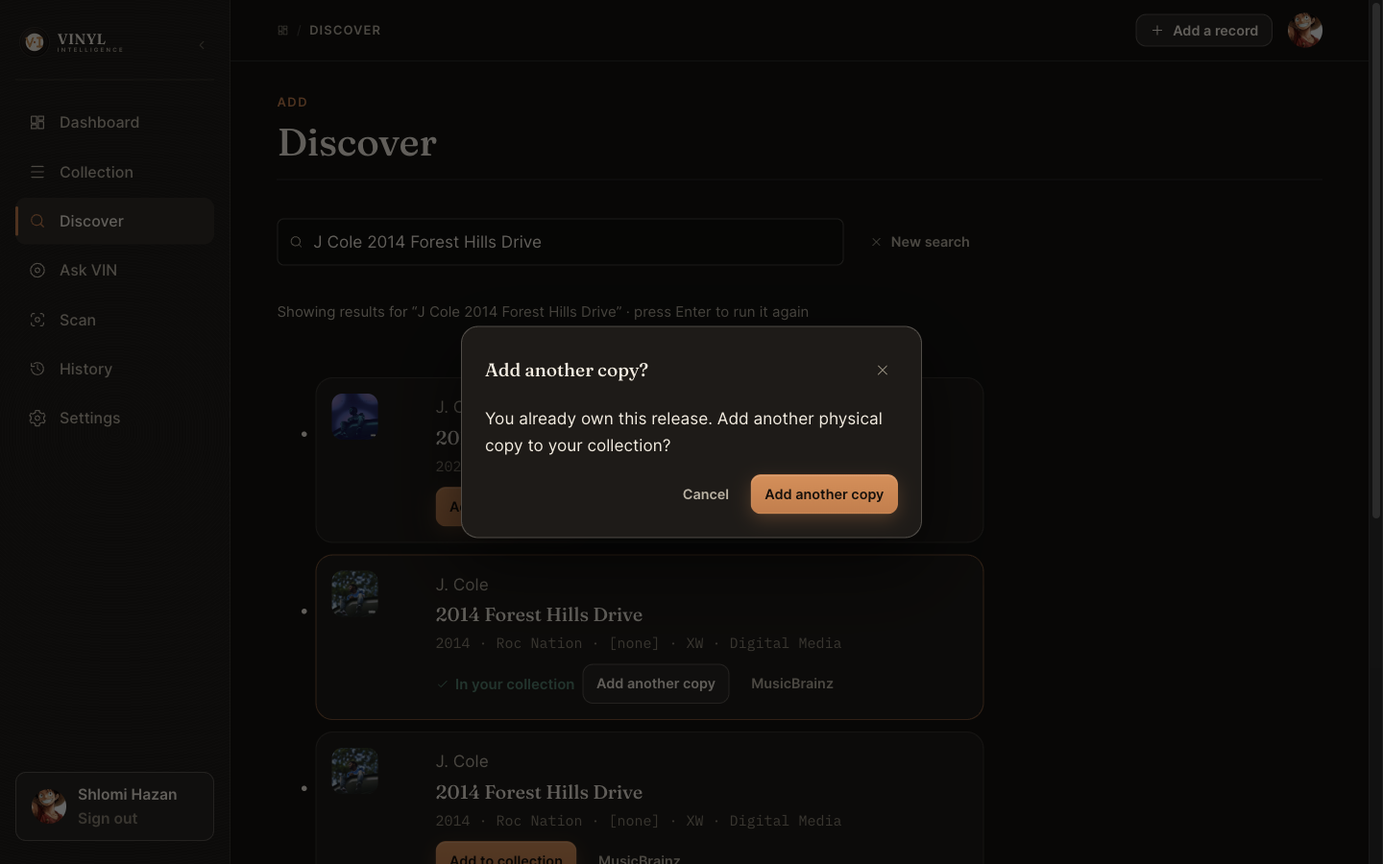
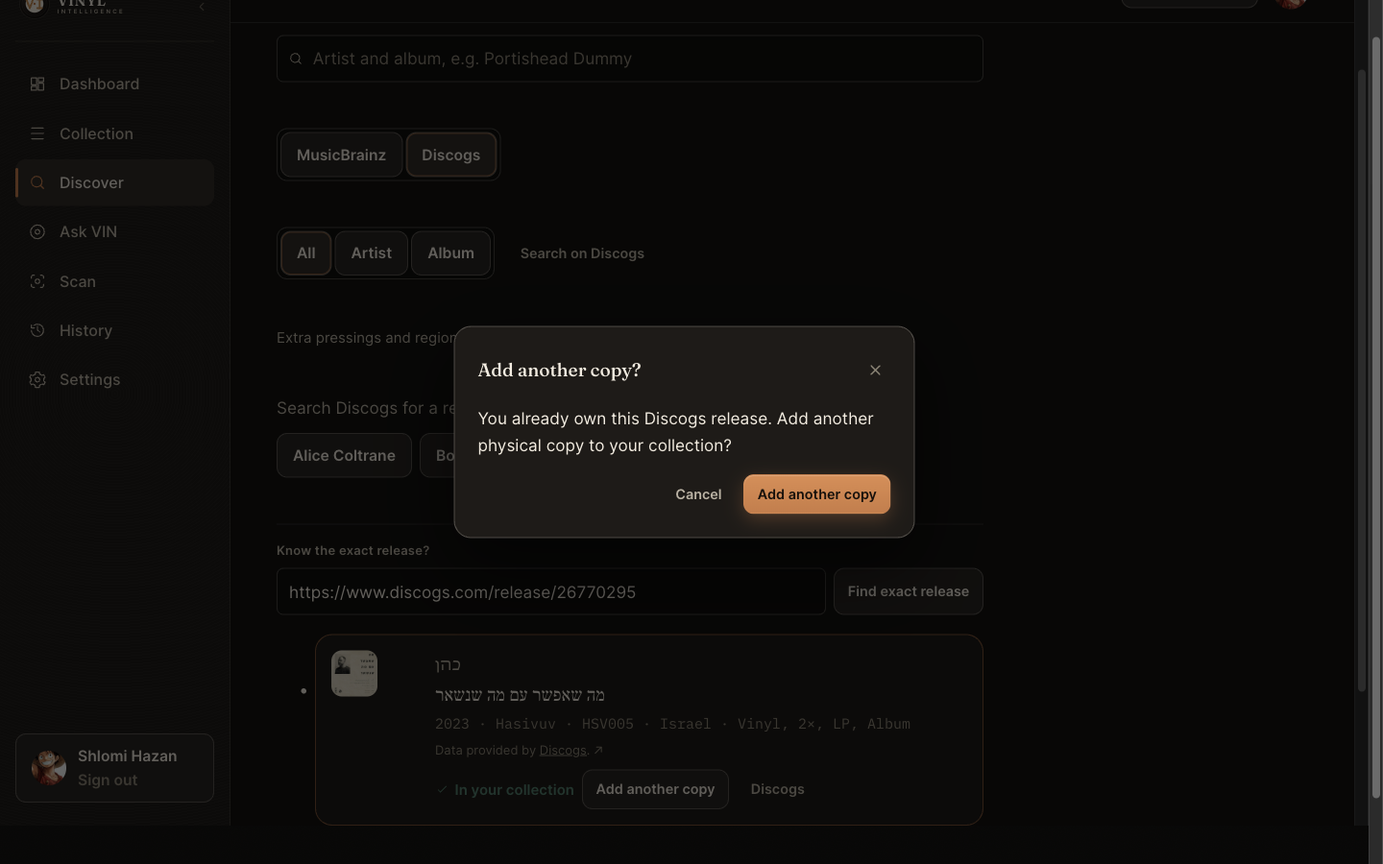
docs: final submission refresh — two-provider Discover in README/User Guide/Inspect
Documentation and screenshot refresh only. Captured against real production
(https://vinyl-intelligence.netlify.app, runtime 6a86f57b292826ecf73c4adab9d5a40baa5ecdeb)
via puppeteer-core + a fresh, temporary Chrome profile the user logged into
interactively; every screenshot was visually inspected before acceptance,
with waits for network idle plus real artwork load. No credentials, cookies,
or tokens were ever printed, logged, or committed.

Screenshots replaced (were MusicBrainz-only, predating the provider
selector entirely):
- docs/assets/screenshots/09-discover.png
- docs/assets/screenshots/10-discover-results.png
- docs/assets/screenshots/11-discover-duplicate-dialog.png (now the Discogs
  duplicate-copy case, with the provider selector visible in frame)
- docs/assets/screenshots/17-discover-exact-lookup.png (MusicBrainz exact
  lookup, now with the provider selector visible in frame)
- docs/assets/inspect/09-discover-modes-exact-lookup.png (re-annotated for
  the two-provider design: provider selector, shared All/Artist/Album
  modes, exact-release lookup)

Screenshots added (no prior asset showed any Discogs UI):
- docs/assets/screenshots/18-discover-discogs.png (Discogs initial state)
- docs/assets/screenshots/19-discover-discogs-results.png (Hebrew query,
  real artwork, attribution, owned state)
- docs/assets/screenshots/20-discover-discogs-exact-lookup.png (exact
  release 26770295, owned state)
[…]

diff --git a/README.md b/README.md
@@ -69,7 +69,7 @@ Vinyl collectors often remember a mood, a decade, or a feeling before they remem
 | 🤖 AI Curator (VIN) | Natural-language mood → grounded recommendations from owned records only |
 | 💬 Conversational refinement | Bounded follow-up turns that narrow a previous recommendation |
 | 📀 Personal collection | Full CRUD, organized by artist, genre, year, decade, rating, favorites |
-| 🔎 Catalog-assisted add | MusicBrainz search → candidate confirmation → import |
+| 🔎 Catalog-assisted add | MusicBrainz (default) or Discogs (secondary) search → candidate confirmation → import |
 | 📸 AI cover recognition | Photograph a sleeve → vision clues → catalog match → confirm → save |
 | 🔁 Duplicate-copy handling | Owning a second physical pressing is disclosed and explicitly confirmed, never blocked or silently duplicated |
 | 🔍 Deterministic search/filter/sort | Artist, title, genre, decade, rating, listening recency — no LLM involved |
@@ -96,24 +96,36 @@ The non-negotiable rule: **VIN recommends only from records the user owns.** The
   <img src="docs/assets/screenshots/06-collection-list.png" alt="Collection list view with filters" width="820">
 </p>
 
-Every collection item combines shared catalog facts (artist, title, year, label, genres — sourced from MusicBrainz) with data the user fully owns: rating, favorite flag, personal notes, personal genres, custom cover, and listening history. Browse by artist, genre, year/decade, favorites, minimum rating, or listening recency ("Never played," "Not played in 30 days," "Least recently played"), in Grid or List view, on desktop or mobile — all deterministic, with no network round-trip on a filter change.
+Every collection item combines shared catalog facts (artist, title, year, label, genres — sourced from MusicBrainz or Discogs, depending on how the record was added) with data the user fully owns: rating, favorite flag, personal notes, personal genres, custom cover, and listening history. Browse by artist, genre, year/decade, favorites, minimum rating, or listening recency ("Never played," "Not played in 30 days," "Least recently played"), in Grid or List view, on desktop or mobile — all deterministic, with no network round-trip on a filter change.
 
 ## 🔎 Discover Records
 
 <p align="center">
-  <img src="docs/assets/screenshots/10-discover-results.png" alt="Discover search results with mode selector" width="820">
+  <img src="docs/assets/screenshots/09-discover.png" alt="Discover — MusicBrainz/Discogs provider selector, search modes, examples, and exact-release lookup" width="820">
 </p>
 
-Search MusicBrainz in one of three explicit modes — **All** (artist or release title, the default), **Artist**, or **Album** — confirm the correct release, and add it. Results page five at a time with **Load more** (up to 20 per query), and a **"Search on MusicBrainz"** link opens the provider's own full search UI when the bounded in-app result set isn't enough. Already know the exact pressing? Paste its MusicBrainz release URL under **"Know the exact release?"** and Vinyl Intelligence extracts and validates the release ID itself — no manual copying, and the pasted URL is never fetched by the server, only the validated ID crosses the boundary:
+One shared search area serves two catalog providers, **MusicBrainz | Discogs**, chosen with an explicit selector — **MusicBrainz is the default**, and switching provider (or mode) never fires a search by itself; the typed query always survives the switch. Both providers expose the same three explicit search modes — **All** (artist or release title, the default), **Artist**, or **Album** — plus a set of example searches and an outbound **"Search on MusicBrainz"** / **"Search on Discogs"** link to the provider's own full search UI when the bounded in-app result set isn't enough:
 
 <p align="center">
-  <img src="docs/assets/screenshots/17-discover-exact-lookup.png" alt="Exact MusicBrainz release URL lookup returning one candidate" width="820">
+  <img src="docs/assets/screenshots/10-discover-results.png" alt="MusicBrainz search results for Radiohead OK Computer, provider selector visible" width="820">
 </p>
 
-If a candidate is a release **already** in the collection, Discover says so honestly ("In your collection") and still offers an explicit **"Add another copy"** action for a legitimate second pressing — click it and a single confirmation dialog is the only way an extra physical copy is ever added:
+**Discogs is an explicit secondary provider**, not a silent fallback — useful for regional pressings and releases MusicBrainz doesn't have. Discogs results and MusicBrainz results are never combined or cross-matched; adding the same release through both providers creates two separate, honestly-labeled collection entries, each carrying real cover artwork and the required "Data provided by Discogs." attribution:
 
 <p align="center">
-  <img src="docs/assets/screenshots/11-discover-duplicate-dialog.png" alt="Duplicate-copy confirmation dialog" width="520">
+  <img src="docs/assets/screenshots/19-discover-discogs-results.png" alt="Discogs search results for a Hebrew query, with artwork, attribution, and owned state" width="820">
+</p>
+
+Already know the exact pressing? Paste a MusicBrainz **or** Discogs release URL under **"Know the exact release?"** and Vinyl Intelligence extracts and validates the release ID itself — no manual copying, and the pasted URL is never fetched by the server; only the validated ID crosses the boundary:
+
+<p align="center">
+  <img src="docs/assets/screenshots/20-discover-discogs-exact-lookup.png" alt="Exact Discogs release URL lookup returning one candidate, already owned" width="820">
+</p>
+
+If a candidate is a release **already** in the collection (checked by its exact provider + release ID, MusicBrainz and Discogs identities never conflated), Discover says so honestly ("In your collection") and still offers an explicit **"Add another copy"** action for a legitimate second pressing — click it and a single confirmation dialog is the only way an extra physical copy is ever added; a brand-new, not-yet-owned result adds directly, with no extra popup in the way:
+
+<p align="center">
+  <img src="docs/assets/screenshots/11-discover-duplicate-dialog.png" alt="Duplicate-copy confirmation dialog for an already-owned Discogs release" width="520">
 </p>
 
 ## 📸 Scan a Record Cover
@@ -138,7 +150,7 @@ Photograph or upload a cover. A vision model extracts likely clues (artist, titl
   <img src="docs/assets/screenshots/07-record-detail.png" alt="Album detail page" width="820">
 </p>
 
-The Album Detail page is the clearest picture of the app's metadata boundary: catalog genres are shown as read-only chips (shared data, sourced from MusicBrainz), while "Your genres," rating, favorite, notes, and cover art are all editable, owner-scoped overlays layered on top. A MusicBrainz-backed record also carries a **"View on MusicBrainz"** link back to its exact release page — pure outbound provenance, no new server call. VIN can use these signals; it never invents or overwrites them.
+The Album Detail page is the clearest picture of the app's metadata boundary: catalog genres are shown as read-only chips (shared data, sourced from MusicBrainz or Discogs depending on how the record was added), while "Your genres," rating, favorite, notes, and cover art are all editable, owner-scoped overlays layered on top. A catalog-backed record also carries a provenance link back to its exact release page on its source provider — **"View on MusicBrainz"** or **"View on Discogs"**, the latter paired with the required "Data provided by Discogs." attribution — pure outbound provenance, no new server call. VIN can use these signals; it never invents or overwrites them.
 
 ## 🌍 Hebrew & Multilingual Records
 
@@ -154,8 +166,8 @@ Dynamic record content — titles, artists, labels, genres — renders correctly
 | --- | --- |
 | ![Dashboard](docs/assets/screenshots/03-dashboard.png) | ![Collection filters](docs/assets/screenshots/05-collection-filters.png) |
 | Dashboard — stats, Quick VIN, quick actions | Collection — minimum-rating filter applied |
-| ![Discover](docs/assets/screenshots/09-discover.png) | ![Mobile](docs/assets/screenshots/16-mobile-collection.png) |
-| Discover — search modes, Load more, and exact-URL lookup | Mobile — Collection on a narrow viewport |
+| ![Discover](docs/assets/screenshots/18-discover-discogs.png) | ![Mobile](docs/assets/screenshots/16-mobile-collection.png) |
+| Discover — Discogs selected, search modes, examples, and exact-URL lookup | Mobile — Collection on a narrow viewport |
 
 More screens are shown throughout this README and in the [User Guide](docs/USER_GUIDE.md) and [Visual Inspect](docs/INSPECT.md) guide.
 
@@ -178,14 +190,15 @@ Browser (Vite + React 19 + TypeScript SPA on Netlify static hosting)
   |
   `---- provider access + privileged catalog persistence --> Netlify Functions
           |  /api/health             (GET)   public liveness — no auth
-          |  /api/catalog/search     (GET)   MusicBrainz release search        [auth]
+          |  /api/catalog/search     (GET)   MusicBrainz (default) or Discogs  [auth]
+          |                                  (secondary, ?provider=discogs) search
           |  /api/catalog/add        (POST)  upsert shared release + insert    [auth]
           |                                  owned collection item
           |  /api/catalog/recognize  (POST)  OpenRouter vision recognition     [auth]
           |  /api/curator/recommend  (POST)  initial recommendation pipeline   [auth]
           |  /api/curator/refine     (POST)  bounded refinement pipeline       [auth]
           v
-      Hosted Supabase (service-role:    OpenRouter                MusicBrainz
+      Hosted Supabase (service-role:    OpenRouter                MusicBrainz + Discogs
       catalog-add's release upsert       google/gemini-3.1-flash-lite (vision + intent)
       AND collection-item insert,        google/gemini-3.5-flash (selection)
       plus telemetry writes)
@@ -199,7 +212,7 @@ Full detail, including rejected alternatives and the reasoning behind each decis
 - **Backend:** Netlify Functions (`.mts`), six endpoints — five auth-gated application endpoints plus one public `/api/health` liveness endpoint
 - **Database / Auth / Storage:** hosted Supabase — Postgres with RLS on every table, Supabase Auth, two private Storage buckets
 - **AI:** OpenRouter — `google/gemini-3.1-flash-lite` (vision + curator intent), `google/gemini-3.5-flash` (curator selection); strict JSON schemas; allowed-candidate-ID validation
-- **Music metadata:** MusicBrainz; Cover Art Archive for display-time artwork
+- **Music metadata:** MusicBrainz (primary/default), Discogs (explicit secondary provider); Cover Art Archive for display-time MusicBrainz artwork, a persisted Discogs image URL for Discogs artwork
 - **Testing:** Vitest (unit/integration), pgTAP via the Supabase CLI (RLS/DB)
 - **Deliberately not used:** RAG / vector database, multi-agent orchestration, Next.js, analytics infrastructure
 
@@ -226,9 +239,11 @@ Copy `.env.example` to a local `.env` and fill in local or hosted Supabase value
 | `SUPABASE_SERVICE_ROLE_KEY` | Netlify Functions only | **yes** |
 | `OPENROUTER_API_KEY` | Netlify Functions only | **yes** |
 | `MUSICBRAINZ_USER_AGENT`, `OPENROUTER_VISION_MODEL`, `OPENROUTER_CURATOR_INTENT_MODEL`, `OPENROUTER_CURATOR_SELECTION_MODEL` | Netlify Functions only | no |
+| `DISCOGS_TOKEN` | Netlify Functions only | **yes** |
+| `DISCOGS_USER_AGENT` | Netlify Functions only | no |
 | `OPENROUTER_APP_URL`, `OPENROUTER_APP_TITLE` | Netlify Functions only | no (optional attribution headers) |
 
-Browser code uses only `VITE_*` values. Running the photo-recognition or curator flows locally makes real, paid OpenRouter calls.
+Browser code uses only `VITE_*` values — `DISCOGS_TOKEN` and `DISCOGS_USER_AGENT` (like every other catalog/AI credential) are read only by Netlify Functions and never reach client code. Running the photo-recognition or curator flows locally makes real, paid OpenRouter calls; running a Discogs search locally makes a real Discogs API call.
 
 For the local Supabase stack:
 
@@ -270,7 +285,7 @@ The full verification history — every milestone's automated gate, independent 
 | [Architecture](docs/architecture.md) | As-built system design |
 | [Data Model](docs/data-model.md) | Schema, RLS, and Storage |
 | [AI Design](docs/ai-design.md) | Model choices, prompts, cost/latency posture |
-| [API Integrations](docs/api-integrations.md) | MusicBrainz, Cover Art Archive, OpenRouter, Supabase, Netlify |
+| [API Integrations](docs/api-integrations.md) | MusicBrainz, Discogs, Cover Art Archive, OpenRouter, Supabase, Netlify |
 | [Security](docs/security.md) | Secrets, RLS, upload validation, retention |
 | [Verification](docs/verification.md) | Every milestone's evidence, findings, and human acceptance |
 | [Current Roadmap](docs/roadmaps/2026-09-02-complete-project-roadmap.md) | Actual project evolution, current status |
@@ -308,8 +323,11 @@ The project was not designed once and generated — it evolved through a discipl
 2. **Hebrew & Multilingual Record Support** — a deliberate post-M12 enhancement, not part of the original plan.
 3. **Final Submission Alignment** — an independent audit-triggered remediation that closed two real gaps (Collection rating/listening browse completion; Discover/Scan duplicate-copy handling) and reconciled the living documentation.
 4. **Discover & MusicBrainz Navigation Enhancement** — a further deliberate, human-requested post-freeze usability enhancement discovered during real hands-on product use: explicit All/Artist/Album search modes with corrected MusicBrainz query semantics, bounded "Load more" pagination, a deterministic exact-release-URL lookup (extract-and-validate the MBID; the pasted URL itself is never fetched server-side), an outbound "Search on MusicBrainz" link, and a Record Detail "View on MusicBrainz" provenance link — all routed through the existing `/api/catalog/search` endpoint and the existing confirm-before-add/duplicate-copy contract, with no schema, dependency, or AI-model change.
+5. **Discogs Secondary Catalog Provider** — MusicBrainz remains primary/default; Discogs was added as an explicit, user-triggered secondary provider (never automatic, never combined or cross-matched with MusicBrainz results) for regional pressings and releases MusicBrainz doesn't have (spec 0018).
+6. **Discogs Discover UX & Provider Artwork** — triggered by real production acceptance of the above: one shared MusicBrainz/Discogs search area, a direct first-add (no redundant preview popup) while the duplicate-copy confirmation is kept, exact Discogs release URL import, and a new persisted-URL-only Discogs provider-artwork feature, gated by a six-hour freshness boundary (spec 0019).
+7. **Discogs Discover Parity Follow-up** — brought Discogs the rest of the way to parity with MusicBrainz: the same All/Artist/Album modes and example searches, a "Search on Discogs" outbound link, and an Album Detail provenance layout matching MusicBrainz's own (spec 0020). This is the current accepted production runtime.
 
-Every phase followed the same loop: specification → human-approved plan → implementation → automated verification → independent review → correction where needed → merge → deployment → human production acceptance. See the [current roadmap](docs/roadmaps/2026-09-02-complete-project-roadmap.md) for the full chronology and exact commit/deploy evidence, and the [historical roadmap snapshot](docs/roadmaps/2026-08-18-complete-project-roadmap.md) (preserved unchanged) for what was originally planned before implementation began.
+Every phase followed the same loop: specification → human-approved plan → implementation → automated verification → independent review → correction where needed → merge → deployment → human production acceptance. See the [current roadmap](docs/roadmaps/2026-09-02-complete-project-roadmap.md) for the full chronology and exact commit/deploy evidence, and the [historical roadmap snapshot](docs/roadmaps/2026-08-18-complete-project-roadmap.md) (preserved unchanged) for what was originally planned before implementation began. This documentation-refresh pass (README/User Guide/Inspect/screenshots) and the production-acceptance record that precedes it are docs-only changes on top of that same accepted runtime — they do not themselves change what's deployed.
 
 ## 🎓 ASE-26 Course Context
 

diff --git a/docs/USER_GUIDE.md b/docs/USER_GUIDE.md
@@ -10,7 +10,7 @@ A screen-by-screen guide to using the application. For the product's final contr
 4. [🏠 Dashboard](#-4-dashboard)
 5. [📀 Collection — Browsing, Search, Filters, Sorting, Views](#-5-collection--browsing-search-filters-sorting-views)
 6. [➕ Adding a Record Manually](#-6-adding-a-record-manually)
-7. [🔎 Discovering a Record through MusicBrainz](#-7-discovering-a-record-through-musicbrainz)
+7. [🔎 Discovering Records — MusicBrainz & Discogs](#-7-discovering-records--musicbrainz--discogs)
 8. [🔁 Duplicate-Copy Confirmation](#-8-duplicate-copy-confirmation)
 9. [📸 Scanning a Record Cover](#-9-scanning-a-record-cover)
 10. [💿 Record Detail & Personal Metadata](#-10-record-detail--personal-metadata)
@@ -93,13 +93,15 @@ List view adds a per-row play count ("Never played" / "N play(s)") plus quick fa
 
 ## ➕ 6. Adding a Record Manually
 
-From Collection, click **Add record** (or **Add a record** in the top bar). Fill in the fields you know — artist and title are required, everything else is optional — and save. Use this when a record genuinely has no MusicBrainz match (a bootleg, an extremely obscure pressing, a private release).
+From Collection, click **Add record** (or **Add a record** in the top bar). Fill in the fields you know — artist and title are required, everything else is optional — and save. Use this when a record genuinely has no match on either catalog provider (a bootleg, an extremely obscure pressing, a private release) — try Discover's MusicBrainz **and** Discogs search first (§7).
 
-## 🔎 7. Discovering a Record through MusicBrainz
+## 🔎 7. Discovering Records — MusicBrainz & Discogs
 
-<p align="center"><img src="assets/screenshots/09-discover.png" alt="Discover — initial state with search modes and exact-URL lookup" width="820"></p>
+<p align="center"><img src="assets/screenshots/09-discover.png" alt="Discover — MusicBrainz selected, search modes, examples, and exact-URL lookup" width="820"></p>
 
-Type an artist and album (the example chips — "Alice Coltrane," "Bowie Low," "Radiohead OK Computer" — show the expected format) and press Enter or the search icon. Three modes sit above the results, mutually exclusive and single-select:
+Discover has **one search box shared by two catalog providers** — a **MusicBrainz | Discogs** selector sits right below it. **MusicBrainz is selected by default** every time you open the page. Switching providers (or switching modes, below) is instant and **never runs a search by itself** — it only changes what a search *would* do the next time you press Enter or click a search button — and whatever you've already typed stays in the box across the switch, so you never have to retype it.
+
+Type an artist and album (the example chips — "Alice Coltrane," "Bowie Low," "Radiohead OK Computer" — show the expected format and work under either provider) and press Enter or the search icon. Both providers show the same three modes above the results, mutually exclusive and single-select:
 
 | Mode | Searches | When to use it |
 | --- | --- | --- |
@@ -107,28 +109,42 @@ Type an artist and album (the example chips — "Alice Coltrane," "Bowie Low," "
 | **Artist** | artist name only | a common word in the artist name is drowning in unrelated release-title matches |
 | **Album** | release title only | you know the exact title and want to skip artist noise |
 
-Switching modes clears the current results (they were fetched under the old mode's meaning) but keeps whatever you've typed — no retyping needed.
+Switching modes clears the current results (they were fetched under the old mode's meaning) but keeps whatever you've typed — no retyping needed, and no search runs until you press Enter again.
 
-<p align="center"><img src="assets/screenshots/10-discover-results.png" alt="Discover — search results" width="820"></p>
+### MusicBrainz results
 
-Each result shows the release's year, label, catalog number, country, and format, plus a link to view it on MusicBrainz. Click **Add to collection** on the correct edition to import it. Results come five at a time; if more exist, a **Load more** button appends the next five (up to 20 total per search) without losing what's already on screen. If a later page fails to load, the ones already showing stay put and a **Retry** re-fetches just that page.
+<p align="center"><img src="assets/screenshots/10-discover-results.png" alt="Discover — MusicBrainz search results, provider selector visible" width="820"></p>
 
-Still not finding it? Two escape hatches, in order:
+Each MusicBrainz result shows the release's year, label, catalog number, country, and format, plus a link to view it on MusicBrainz. Click **Add to collection** on the correct edition to import it. Results come five at a time; if more exist, a **Load more** button appends the next five (up to 20 total per search) without losing what's already on screen. If a later page fails to load, the ones already showing stay put and a **Retry** re-fetches just that page.
 
-- **Search on MusicBrainz** — opens MusicBrainz's own full search site in a new tab, for when Vinyl Intelligence's bounded result window isn't enough.
-- **Know the exact release?** — if you've found the release on MusicBrainz yourself, paste its release URL (e.g. `https://musicbrainz.org/release/...`) and click **Find exact release**. Vinyl Intelligence extracts the release ID from the URL itself — you never have to copy just the ID — and looks up that exact release. The pasted URL is validated in your browser before anything is sent, and only the extracted ID ever reaches the server; an invalid link (wrong site, wrong MusicBrainz page type, malformed ID) is rejected locally with no network request at all.
+### Discogs results
+
+<p align="center"><img src="assets/screenshots/19-discover-discogs-results.png" alt="Discover — Discogs search results for a Hebrew query, with real artwork and attribution" width="820"></p>
+
+Select **Discogs** to search a second, independent catalog — useful for regional pressings and releases MusicBrainz doesn't carry. A Discogs result shows real cover artwork pulled from Discogs itself, the release's year, country, format, label, and catalog number, and the required **"Data provided by Discogs."** attribution linking back to the release's Discogs page. Discogs results have no "Load more" paging (they're a bounded, single fetch), and — this is deliberate — **Discogs and MusicBrainz results are never combined, matched, or deduplicated against each other**: adding the same physical release through both providers creates two separate, honestly-labeled collection entries, not one merged one.
+
+Still not finding it? Two escape hatches, in order, for whichever provider you have selected:
+
+- **Search on MusicBrainz** / **Search on Discogs** — opens that provider's own full search site in a new tab, carrying over whatever you've typed, for when Vinyl Intelligence's bounded result window isn't enough.
+- **Know the exact release?** — if you've found the release yourself on MusicBrainz or Discogs, paste its release URL and click **Find exact release**:
+  - MusicBrainz: `https://musicbrainz.org/release/...`
+  - Discogs: `https://www.discogs.com/release/...`
+
+  Vinyl Intelligence extracts and validates the release ID from the URL itself — you never have to copy just the ID — and looks up that exact release. The pasted URL is validated in your browser before anything is sent, and only the extracted ID ever reaches the server; an invalid link (wrong site, wrong page type, malformed ID) is rejected locally with no network request at all. Each provider's exact-lookup field only accepts that provider's own URL shape.
 
 <p align="center"><img src="assets/screenshots/17-discover-exact-lookup.png" alt="Discover — exact MusicBrainz release URL lookup result" width="820"></p>
 
-An exact-URL result appears in the same candidate card as any other result, with the same **Add to collection** confirmation and the same duplicate-copy handling below — pasting a URL never adds anything by itself.
+<p align="center"><img src="assets/screenshots/20-discover-discogs-exact-lookup.png" alt="Discover — exact Discogs release URL lookup result, already owned" width="820"></p>
 
-If none of that matches, use **Can't find it? Add it manually** at the bottom of the page.
+An exact-URL result appears in the same candidate card as any other result for that provider, with the same **Add to collection** action and the same duplicate-copy handling below — pasting a URL never adds anything by itself.
+
+A brand-new (not-yet-owned) result from either provider adds directly with one click on **Add to collection** — no extra confirmation step in the way. If none of that matches, use **Can't find it? Add it manually** at the bottom of the page (§6) — the manual-entry fallback is identical regardless of which provider you were searching.
 
 ## 🔁 8. Duplicate-Copy Confirmation
 
-If a search result is a release you already own (matched by its exact MusicBrainz release ID), Discover tells you honestly instead of blocking or silently duplicating it:
+If a search result — MusicBrainz or Discogs — is a release you already own (matched by its exact provider identity: provider + release ID, never guessed, and MusicBrainz/Discogs identities are never conflated with each other), Discover tells you honestly instead of blocking or silently duplicating it:
 
-<p align="center"><img src="assets/screenshots/11-discover-duplicate-dialog.png" alt="Add another copy confirmation dialog" width="520"></p>
+<p align="center"><img src="assets/screenshots/11-discover-duplicate-dialog.png" alt="Add another copy confirmation dialog for an already-owned Discogs release" width="520"></p>
 
 | State | What you see | What happens |
 | --- | --- | --- |
@@ -156,16 +172,20 @@ If the photo is unclear, you'll be offered "Search by text instead" (hands the c
 
 | Section | Editable? | Notes |
 | --- | --- | --- |
-| Artist / title / year / label / country / format | No | Shared catalog facts sourced from MusicBrainz (or your own entry, for a manual record) |
+| Artist / title / year / label / country / format | No | Shared catalog facts sourced from MusicBrainz or Discogs, depending on how the record was added (or your own entry, for a manual record) |
 | ♡ Add favourite | Yes | Toggles the favorite flag |
 | ★ rating row | Yes | Click a star to rate 1–5; click the filled star again to return to unrated |
 | Genres | No | Catalog-sourced tags |
 | Your genres | Yes | Type a tag and click **Add**; these are yours alone and combine with catalog genres for filtering |
-| Cover art | Yes | **Use my own cover** uploads a replacement; catalog artwork is the default |
-| MusicBrainz | No | A catalog-backed release shows **View on MusicBrainz**, linking to its exact release page on musicbrainz.org (opens in a new tab); a manually-created record shows no such link, since it has no MusicBrainz identity to point to |
+| Cover art | Yes | **Use my own cover** uploads a replacement; catalog artwork (MusicBrainz's Cover Art Archive image, or a persisted Discogs image) is the default |
+| MusicBrainz / Discogs | No | A catalog-backed release shows a provenance entry for its source provider — **MusicBrainz** / **View on MusicBrainz**, linking to its exact release page on musicbrainz.org, or **Discogs** / **View on Discogs**, linking to its exact release page on discogs.com, paired with the required **"Data provided by Discogs."** attribution directly beneath the link; a manually-created record shows neither, since it has no catalog identity to point to |
 | Listening | Yes (log only) | **Mark played** logs a play now; see §11 for corrections |
 
-Personal notes (not shown in the screenshot above) are available on the same page for a private, free-text note per record — never shared, never sent to any AI model.
+<p align="center"><img src="assets/screenshots/21-discogs-record-detail.png" alt="Record detail page for a Discogs-backed release" width="820"></p>
+
+The two providers' record-detail layouts match — same field positions, same styling — with the Discogs one additionally carrying the attribution line above.
+
+Personal notes (not shown in the screenshots above) are available on the same page for a private, free-text note per record — never shared, never sent to any AI model.
 
 ## 🎧 11. Listening History
 
@@ -215,7 +235,7 @@ A record with a Hebrew (or any non-Latin-script) title and artist renders correc
 - Your collection, ratings, notes, personal genres, and listening history are yours — Row-Level Security means no other user can read or write them, and there is no admin UI that bypasses that.
 - A photo you upload to **Scan** is used only to identify a record — it is transient and is not permanently stored. A **custom cover** you choose for a record, by contrast, is artwork you're intentionally keeping, and is stored in your own private Storage space until you replace or remove it.
 - Your VIN conversation is never saved anywhere.
-- Shared catalog facts (the parts sourced from MusicBrainz) are shared read-only reference data used by everyone's collection — editing them isn't offered because they aren't yours alone to change; your own corrections live in the personal-metadata overlays described in §10.
+- Shared catalog facts (the parts sourced from MusicBrainz or Discogs, whichever provider a record was added through) are shared read-only reference data used by everyone's collection — editing them isn't offered because they aren't yours alone to change; your own corrections live in the personal-metadata overlays described in §10.
 
 ## ❓ 17. FAQ
 
@@ -231,5 +251,8 @@ No — it's used once, to extract search clues, and then discarded.
 **Can I use the app in Hebrew throughout?**
 The app's own interface stays in English by design; only your record data (titles, artists, notes, genres) is multilingual-aware. See §14.
 
-**What happens if MusicBrainz or the AI provider is down?**
-You'll see an honest error with a retry option, never a fabricated result.
+**Can I add the same record from both MusicBrainz and Discogs?**
+Yes. They're never combined, matched, or deduplicated against each other — doing so creates two separate, honestly-labeled collection entries, exactly like adding two different pressings would.
+
+**What happens if MusicBrainz, Discogs, or the AI provider is down?**
+You'll see an honest error with a retry option, never a fabricated result. MusicBrainz and Discogs fail independently — one being unavailable never blocks searching the other.

diff --git a/docs/INSPECT.md b/docs/INSPECT.md
@@ -12,7 +12,7 @@ Live application: **<https://vinyl-intelligence.netlify.app>**
 2. [🎚 Collection Controls — Finding A Evidence](#-2-collection-controls--finding-a-evidence)
 3. [💿 Record Detail — The Metadata Boundary](#-3-record-detail--the-metadata-boundary)
 4. [🔁 Duplicate-Copy Handling — Finding B Evidence](#-4-duplicate-copy-handling--finding-b-evidence)
-5. [🔎 Discover — Search Modes & Exact MusicBrainz Lookup](#-5-discover--search-modes--exact-musicbrainz-lookup)
+5. [🔎 Discover — Two-Provider Search, Modes & Exact Lookup](#-5-discover--two-provider-search-modes--exact-lookup)
 6. [📸 Scan — Vision Privacy & Confirm-Before-Save](#-6-scan--vision-privacy--confirm-before-save)
 7. [🤖 VIN — The Recommendation Boundary](#-7-vin--the-recommendation-boundary)
 8. [🎧 History — Hebrew Rendering & Owner-Scoped Correction](#-8-history--hebrew-rendering--owner-scoped-correction)
@@ -37,7 +37,7 @@ Live application: **<https://vinyl-intelligence.netlify.app>**
 
 <p align="center"><img src="assets/inspect/03-record-detail.png" alt="Annotated record detail" width="820"></p>
 
-**🔍 What to inspect:** catalog genres are read-only chips (shared MusicBrainz data); "Your genres" is a separate, editable, owner-scoped overlay. This is the concrete UI evidence for the deterministic/shared-vs-owned data boundary described in [`../SPEC.md`](../SPEC.md) §30/§32 and [ADR 0006](decisions/0006-listening-event-mutability-and-profile-avatar.md).
+**🔍 What to inspect:** catalog genres are read-only chips (shared catalog data, sourced from MusicBrainz or Discogs depending on how the record was added); "Your genres" is a separate, editable, owner-scoped overlay. This is the concrete UI evidence for the deterministic/shared-vs-owned data boundary described in [`../SPEC.md`](../SPEC.md) §30/§32 and [ADR 0006](decisions/0006-listening-event-mutability-and-profile-avatar.md). A Discogs-backed record's equivalent provider-provenance layout is shown in Stop 5.
 
 ## 🔁 4. Duplicate-Copy Handling — Finding B Evidence
 
@@ -45,11 +45,16 @@ Live application: **<https://vinyl-intelligence.netlify.app>**
 
 **🔍 What to inspect:** the exact approved confirmation copy, captured live against a real already-owned MusicBrainz release. This is Finding B's restored contract — an already-owned release is disclosed honestly, never blocked, and a second physical copy requires exactly one intentional confirmation. Cancel makes zero writes; Confirm creates exactly one row. Identical behavior exists in Scan. Full independent-review chronology (including the corrected post-add stale-ownership race) is in `verification.md`.
 
-## 🔎 5. Discover — Search Modes & Exact MusicBrainz Lookup
+## 🔎 5. Discover — Two-Provider Search, Modes & Exact Lookup
 
-<p align="center"><img src="assets/inspect/09-discover-modes-exact-lookup.png" alt="Annotated Discover search modes and exact-URL lookup" width="820"></p>
+<p align="center"><img src="assets/inspect/09-discover-modes-exact-lookup.png" alt="Annotated Discover: two-provider selector, shared search modes, and exact-release lookup" width="820"></p>
 
-**🔍 What to inspect:** the explicit, mutually-exclusive **All / Artist / Album** radio group (correct `role="radio"`/`aria-checked` semantics, not a toggle-button group) above the results, and — lower on the page — a real MusicBrainz release URL pasted into **"Know the exact release?"** resolving to exactly one candidate. This is the Discover & MusicBrainz Navigation Enhancement's core contract made visible: the server never fetches the pasted URL itself — only a locally-extracted, pattern-validated release ID crosses the boundary, re-validated again server-side (`docs/specs/0017-discover-musicbrainz-navigation-enhancement.md` §10–§15). Full evidence in `verification.md`'s "Discover & MusicBrainz Navigation Enhancement Evidence" section.
+**🔍 What to inspect (live, ~2 minutes):** one shared search box serves both catalog providers via the **MusicBrainz | Discogs** selector — **MusicBrainz stays selected by default** on every load, and neither switching provider nor switching mode ever fires a search by itself (the annotated callouts above mark exactly these three regions: the provider selector, the shared All/Artist/Album mode row — the same explicit, mutually-exclusive `role="radio"`/`aria-checked` group on both providers, not a toggle-button group, each paired with its own outbound **"Search on MusicBrainz"** / **"Search on Discogs"** link — and the exact-release-URL area). Click **Discogs**, then reproduce this exact case:
+
+- Search query: `כהן מה שאפשר עם מה שנשאר` — real artwork, the required "Data provided by Discogs." attribution, and owned/addable state all render (see [`USER_GUIDE.md`](USER_GUIDE.md) §7 for the full walkthrough and [`assets/screenshots/19-discover-discogs-results.png`](assets/screenshots/19-discover-discogs-results.png)).
+- Exact release: paste `https://www.discogs.com/release/26770295` into "Know the exact release?" — resolves to exactly one candidate ([`assets/screenshots/20-discover-discogs-exact-lookup.png`](assets/screenshots/20-discover-discogs-exact-lookup.png)).
+
+This is the Discover & MusicBrainz Navigation Enhancement's original core contract, now extended to a second provider: the server never fetches a pasted URL itself for either provider — only a locally-extracted, pattern-validated release ID crosses the boundary, re-validated again server-side (`docs/specs/0017-discover-musicbrainz-navigation-enhancement.md` §10–§15; `docs/specs/0018-discogs-secondary-catalog-provider.md`; `docs/specs/0020-discogs-discover-parity-followup.md`). MusicBrainz and Discogs identity are never conflated — an "In your collection" / "Add another copy" disclosure (§4 above) is checked against the exact `(provider, provider_release_id)` pair. Full evidence in `verification.md`'s "Discover & MusicBrainz Navigation Enhancement Evidence" and "Discogs Discover Parity Follow-up" sections.
 
 ## 📸 6. Scan — Vision Privacy & Confirm-Before-Save
 
